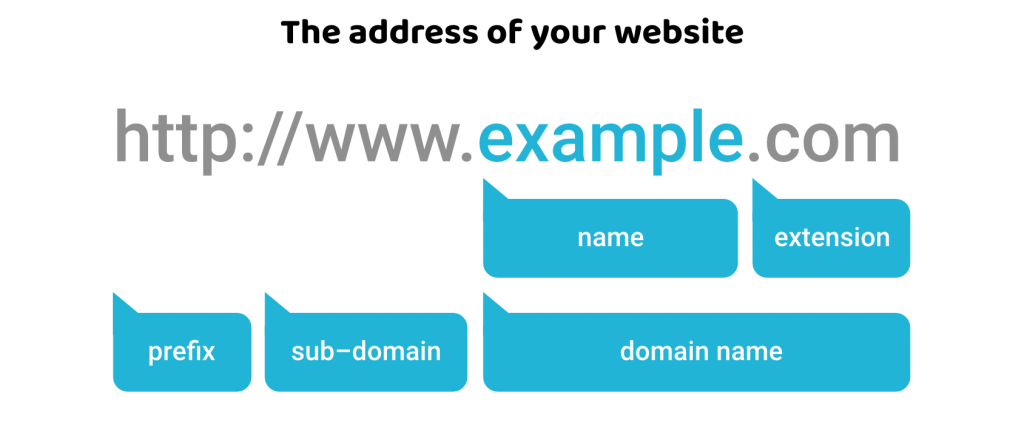
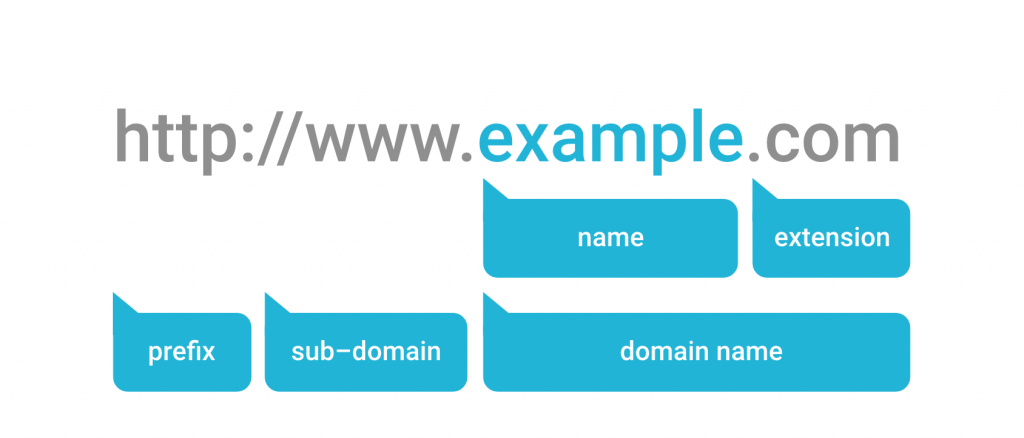
cleaned up image, commented out colorful background

Changed region(s): [[0.2812, 0.0297, 0.75, 0.1187]]

diff --git a/src/app/footer/footer.component.html b/src/app/footer/footer.component.html
@@ -2,7 +2,7 @@
   <footer>
     <div class="container">
       <div class="row">
-        <div class="col-lg-4">
+        <div class="col-lg-2">
           <h3>Services</h3>
           <app-swipe-underline [width]="100" [fillColor]="'white'"></app-swipe-underline>
           <ul>
@@ -13,12 +13,12 @@
             <li><i class="bi bi-arrow-right"></i> New Apps</li>
           </ul>
         </div>
-        <div class="col-lg-4 text-center">
+        <div class="col-lg-7 text-center">
           <h3>Technical Resources Made Easy</h3>
           <app-swipe-underline [width]="250" [fillColor]="'white'"></app-swipe-underline>
           <p class="mt-4">Empowering your digital journey with expert guidance and solutions.</p>
         </div>
-        <div class="col-lg-4">
+        <div class="col-lg-3">
           <h3>Contact Us</h3>
           <app-swipe-underline [width]="130" [fillColor]="'white'"></app-swipe-underline>
           <ul class="mt-4">
@@ -29,7 +29,7 @@
       </div>
       <div class="row">
         <div class="col-12">
-          <p id="copyright-text"> 2024 Technical Resources Made Easy. All rights reserved.</p>
+          <p id="copyright-text"> 2024 Root Design Shop. All rights reserved.</p>
         </div>
       </div>
     </div>

diff --git a/src/app/details/details.component.ts b/src/app/details/details.component.ts
@@ -27,7 +27,7 @@ export class DetailsComponent {
     {
       title: 'Got an Idea for a New App?',
       description:
-        'Maybe all youve got is an idea, and you need someone to help you bring that idea to life.  We can help you identify how possible your idea is, how much time itd take to develope and what potential future competitors you might encounter.',
+        'Maybe all youve got is an idea, and you need someone to help you bring that idea to life.  We can help you identify how possible your idea is and how much time itd take to develope.',
       imageUrl: '../../assets/apps.jpg',
     },
     {
@@ -44,7 +44,7 @@ export class DetailsComponent {
     },
     {
       title: 'Need Help with a WordPress Site',
-      description: 'Do you have an existing WordPress site?  Or maybe you need help standing up a new Wordpress site, or maybe you just need help migrating a Wordpress site.  We have experiene with all of it and can guide you through the process.',
+      description: 'Do you have an existing WordPress site?  Or maybe you need help standing up a new Wordpress site, or maybe you just need help migrating a Wordpress site.',
       imageUrl: '../../assets/wordpress.jpg',
     },
     {

diff --git a/src/app/card/card.component.css b/src/app/card/card.component.css
@@ -1,6 +1,6 @@
 .card {
-  min-height: 440px;
-  margin-top: 20px;
+  min-height: 460px;
+  margin-top: 40px;
   position: relative;
   box-shadow: 2px 2px 15px rgba(0, 0, 0, 0.2);
   transition: transform 0.3s ease, box-shadow 0.3s ease;
@@ -33,7 +33,6 @@ a.btn-primary {
 a.btn-primary:hover {
   background-color: #0a58ca;
   border-color: #0a58ca;
-  transform: scale(1.05);
 }
 
 a {

diff --git a/src/app/details/details.component.css b/src/app/details/details.component.css
@@ -1,4 +1,5 @@
 #big-container {
+  /*
   background: linear-gradient(
     0deg,
     rgba(0, 254, 255, 1) 10%,
@@ -6,6 +7,7 @@
     rgba(6, 95, 170, 1) 55%,
     rgba(0, 0, 0, 1) 95%
   );
+  */
   width: 100%;
   padding-bottom: 20px;
 }

diff --git a/src/app/footer/footer.component.css b/src/app/footer/footer.component.css
@@ -1,7 +1,8 @@
 #footer-container {
   width: 100%;
   min-height: 300px;
-  padding: 3rem 0;
+  margin-top: 20px;
+  padding: 3rem 0 0 0;
   background: linear-gradient(to bottom, #1a1a1a 0%, #000000 100%);
 }
 

diff --git a/edit_image.py b/edit_image.py
@@ -1,0 +1,24 @@
+from PIL import Image, ImageDraw
+
+def remove_text_area(image_path, output_path):
+    # Open the image
+    img = Image.open(image_path)
+    
+    # Create a drawing object
+    draw = ImageDraw.Draw(img)
+    
+    # Fill the top area with white
+    # Coordinates are approximate, adjust if needed
+    draw.rectangle([(0, 0), (img.width, 60)], fill='white')
+    
+    # Save the modified image
+    img.save(output_path, quality=95)
+    
+    # Close the image
+    img.close()
+
+# Remove text from domain-names_cropped.png
+remove_text_area(
+    'src/assets/domain-names_cropped.png',
+    'src/assets/domain-names_cropped.png'
+)
